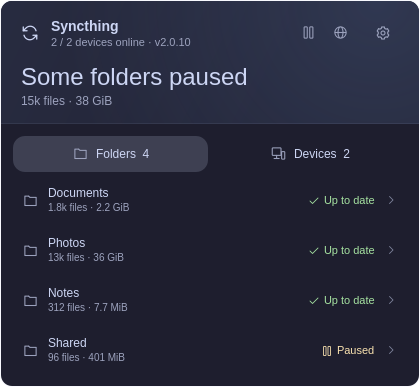
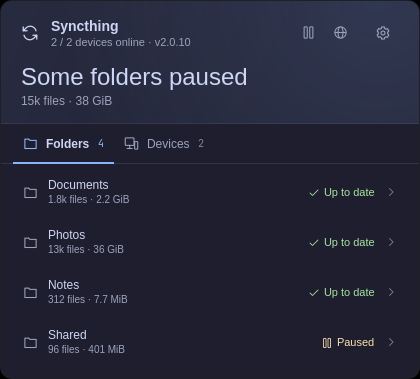
feat(syncthing): adopt the kit's tab row for Folders and Devices
The overview's Folders and Devices tabs were the plugin's own pill row:
two full-width pills, the open one filled, and two cursor stops, so Down
from Folders stopped on Devices and ←/→ switched the tab at once.
DESIGN.md asks for the kit's FoamyTabs row there. The view now uses
FoamyTabs (value bound to the open tab, onActivated opens one): tabs as
wide as their label, the open one's icon, count and underline in the
accent, on the row's hairline, directly under the band. The row is one
cursor stop: ←/→ move between the tabs, Enter opens one, Down goes on to
the rows, and a hovered tab takes the cursor. A warning or error line
above the row keeps a gap to it, as the pills' top margin gave before,
so the cursor highlight stays clear of it. preview.png shows the new
row; its corners are opaque black, as in foamy-todoist's, because the
kit's offscreen render (Qt's software renderer) skips the transparent
fill of a card that holds an opaque square rectangle such as the open
tab's underline. The popup itself keeps its round corners.

tests/runtime.py tabKeys fails on the pill row, with "→ moves to Devices
without opening it: devices", "the next Down reaches the first folder
row" and five more. Broken on purpose, each seen failing: two stops for
the row, ←/→ through the panel cursor, no Enter on the row, and no
cursor move on hover.

diff --git a/ui/SyncthingView.qml b/ui/SyncthingView.qml
@@ -118,7 +118,8 @@ PanelKeyCatcher {
 
   // ---- cursor: tabs, rows, then the header actions ------------------------------
   readonly property int rowCount: tab === "folders" ? folderKeys.count : deviceKeys.count
-  readonly property int firstRowStop: 2
+  // Stop 0 is the tab row; ←/→ move between its tabs.
+  readonly property int firstRowStop: 1
   readonly property int toggleStop: firstRowStop + rowCount
   readonly property int webStop: toggleStop + 1
   readonly property int settingsStop: toggleStop + 2
@@ -134,10 +135,9 @@ PanelKeyCatcher {
   onMoveRequested: function (dx, dy) {
     if (dy !== 0)
       cursor.move(dy)
-    else if (cursor.index >= 0 && cursor.index < firstRowStop) {
-      setTab(dx > 0 ? "devices" : "folders")
-      cursor.hover(dx > 0 ? 1 : 0)
-    } else
+    else if (cursor.at(0))
+      tabs.moveCursor(dx)
+    else
       cursor.move(dx)
   }
   onActivateRequested: root.activate(cursor.index)
@@ -251,9 +251,7 @@ PanelKeyCatcher {
     if (index < 0)
       return
     if (index === 0)
-      setTab("folders")
-    else if (index === 1)
-      setTab("devices")
+      tabs.activateCursor()
     else if (index < toggleStop)
       toggleRow(rowKey(index - firstRowStop))
     else if (index === toggleStop)
@@ -451,6 +449,8 @@ PanelKeyCatcher {
       Layout.leftMargin: FoamyStyle.padding
       Layout.rightMargin: FoamyStyle.padding
       Layout.topMargin: visibleChildren.length > 0 ? FoamyStyle.gapLarge : 0
+      // Keeps the tab row's cursor highlight clear of the last line.
+      Layout.bottomMargin: visibleChildren.length > 0 ? FoamyStyle.gap : 0
       spacing: FoamyStyle.gapSmall
       Label {
         Layout.fillWidth: true
@@ -501,26 +501,30 @@ PanelKeyCatcher {
       }
     }
 
-    // Tabs
-    RowLayout {
+    // Tabs: the body's full width; the row insets its tabs itself.
+    FoamyTabs {
+      id: tabs
+      objectName: "overviewTabs"
       Layout.fillWidth: true
-      Layout.topMargin: FoamyStyle.gapLarge
-      Layout.leftMargin: FoamyStyle.gapLarge
-      Layout.rightMargin: FoamyStyle.gapLarge
-      spacing: FoamyStyle.gapSmall
-      TabStop {
-        view: "folders"
-        iconName: "folder"
-        stop: 0
-        label: FoamyI18n.t("Folders")
-        count: folderKeys.count
-      }
-      TabStop {
-        view: "devices"
-        iconName: "devices"
-        stop: 1
-        label: FoamyI18n.t("Devices")
-        count: deviceKeys.count
+      value: root.tab
+      hasCursor: cursor.at(0)
+      model: [
+        {
+          value: "folders",
+          text: FoamyI18n.t("Folders"),
+          iconName: "folder",
+          count: folderKeys.count
+        },
+        {
+          value: "devices",
+          text: FoamyI18n.t("Devices"),
+          iconName: "devices",
+          count: deviceKeys.count
+        }
+      ]
+      onHovered: cursor.hover(0)
+      onActivated: function (value) {
+        root.setTab(value)
       }
     }
 
@@ -809,43 +813,6 @@ PanelKeyCatcher {
   }
 
   // ---- components ----------------------------------------------------------------------
-  component TabStop: FoamyCursorSurface {
-    id: tabStop
-    required property string view
-    required property string iconName
-    required property int stop
-    required property string label
-    required property int count
-    Layout.fillWidth: true
-    implicitHeight: FoamyStyle.rowHeight
-    hasCursor: cursor.at(stop)
-    current: root.tab === view
-    onHovered: cursor.hover(stop)
-    onClicked: root.setTab(view)
-    Accessible.role: Accessible.PageTab
-    Accessible.name: label
-    Accessible.selected: current
-    Row {
-      anchors.centerIn: parent
-      spacing: FoamyStyle.gap
-      FoamyIcon {
-        anchors.verticalCenter: parent.verticalCenter
-        width: FoamyStyle.iconSize
-        height: width
-        name: tabStop.iconName
-        color: FoamyPalette.secondaryText
-      }
-      Text {
-        anchors.verticalCenter: parent.verticalCenter
-        text: tabStop.label + "  " + FoamyI18n.number(tabStop.count)
-        textFormat: Text.PlainText
-        color: FoamyPalette.text
-        font.family: FoamyStyle.fontFamily
-        font.pixelSize: FoamyStyle.font.body
-      }
-    }
-  }
-
   component OverviewRow: FoamyCursorSurface {
     id: rowItem
     required property string key

diff --git a/tests/runtime.py b/tests/runtime.py
@@ -16,7 +16,9 @@ bridge); the install probe stops for a full interval once Syncthing is
 online; snapshots with the same folders start no conflict walk and a moved
 folder starts one; .stversions is ignored and conflicts are flagged per
 folder, a "~/" folder path included, with an urgent bar and its tooltip; the
-status IPC reply; the popup body is built on open only; row delegates
+status IPC reply; the popup body is built on open only; the Folders /
+Devices tab row is one cursor stop (←/→ between the tabs, Enter opens one,
+Down goes on to the rows, a hovered tab takes the cursor); row delegates
 survive a snapshot (keyed model); a plain p stops syncing and Ctrl+P does
 not; settings open; a folder chooser left open goes with its Panel (the real
 pick-folder helper, blocked on a session bus that never answers, is gone
@@ -194,6 +196,8 @@ ShellRoot {
     check(view !== null && view.service === service, "body built on open")
     check(panels[0].popup.bodyItem === null, "other monitors stay lazy")
     check(view && view.rowCount === 2, "two folder rows")
+    if (view)
+      tabKeys(view)
     savedRow = view ? view.rowItem(0) : null
     check(savedRow !== null, "row delegate exists")
     check(view && view.listWheel && view.listWheel.target !== null, "the overview list scrolls with the kit wheel handling")
@@ -202,6 +206,37 @@ ShellRoot {
     check(service.refresh(), "a refresh starts")
     // The fake core, like the real one, sends the snapshot before the result.
     wait.waitFor(function() { return !service.refreshing }, 10000, step2, "the refresh ends")
+  }
+  // The tab row is one cursor stop: ←/→ move between Folders and Devices,
+  // Enter opens the tab under the cursor, Up and Down go between the row and
+  // the rows, and a hovered tab takes the cursor. The key catcher's signals
+  // stand in for the keys.
+  function tabKeys(view) {
+    var tabs = shell.find(view, "overviewTabs")
+    var onTab = function(i) { return !!tabs && tabs.hasCursor && tabs.cursorIndex === i }
+    var onFirstRow = function() { return !!view.rowItem(0) && view.rowItem(0).hasCursor }
+    var count = function(i) {
+      var label = shell.find(shell.find(tabs, "foamyTab" + i), "foamyTabCount")
+      return label ? label.text : ""
+    }
+    check(count(0) === "2" && count(1) === "2", "the tabs count two folders and two devices: " + count(0) + " " + count(1))
+    view.moveRequested(0, 1)
+    check(onTab(0) && view.tab === "folders", "Down lands on the tab row, on the open Folders tab")
+    view.moveRequested(0, 1)
+    check(onFirstRow() && !onTab(0), "the next Down reaches the first folder row")
+    view.moveRequested(0, -1)
+    check(onTab(0), "Up comes back to the tab row, on the open tab")
+    view.moveRequested(1, 0)
+    check(onTab(1) && view.tab === "folders", "→ moves to Devices without opening it: " + view.tab)
+    view.activateRequested()
+    check(view.tab === "devices" && view.rowCount === 2, "Enter opens Devices: " + view.tab)
+    view.moveRequested(-1, 0)
+    view.activateRequested()
+    check(onTab(0) && view.tab === "folders", "← and Enter open Folders again: " + view.tab)
+    view.moveRequested(0, 1)
+    if (tabs)
+      tabs.hovered()
+    check(onTab(0) && !onFirstRow(), "a hovered tab takes the cursor from the row")
   }
   function step2() {
     check(panels[1].popup.bodyItem.rowItem(0) === savedRow, "row delegate survives a snapshot (keyed model)")

diff --git a/README.md b/README.md
@@ -61,9 +61,10 @@ plugin's helper isn't available for this CPU." and nothing retries.
     or accepts an incoming share.
   - The device warning and the refresh intervals.
 
-Keyboard: arrows or `hjkl` move one cursor through the tabs, rows and header
-buttons (hovering moves the same cursor). Enter activates: it expands a row
-or selects a tab. `o` opens the folder under the cursor, `r` refreshes, `w`
+Keyboard: arrows or `hjkl` move one cursor through the tab row, rows and
+header buttons (hovering moves the same cursor); on the tab row, ←/→ move
+between Folders and Devices. Enter activates: it expands a row or opens the
+tab under the cursor. `o` opens the folder under the cursor, `r` refreshes, `w`
 opens the Web UI, `p` starts or stops syncing and `s` opens Settings. Esc
 closes (or leaves Settings), and Tab or Shift+Tab moves to the next bar panel.
 In Settings and Add folder, Tab walks the controls.

diff --git a/CHANGELOG.md b/CHANGELOG.md
@@ -2,6 +2,12 @@
 
 ## Unreleased
 
+- Show the Folders and Devices tabs as the kit's tab row under the summary:
+  tabs as wide as their label, the open one with its label in bold and its
+  icon, count and underline in the accent, on a hairline across the popup.
+  The row is one keyboard stop: ←/→ move between the tabs, Enter opens one
+  and Down goes on to the rows. Before, each tab was a stop of its own and
+  ←/→ switched the tab at once.
 - Offer start and stop for a Syncthing whose home directory has a space, and
   only through its own `syncthing.service`: the core now reads the unit's
   command line and environment from systemd's bus, with every argument
